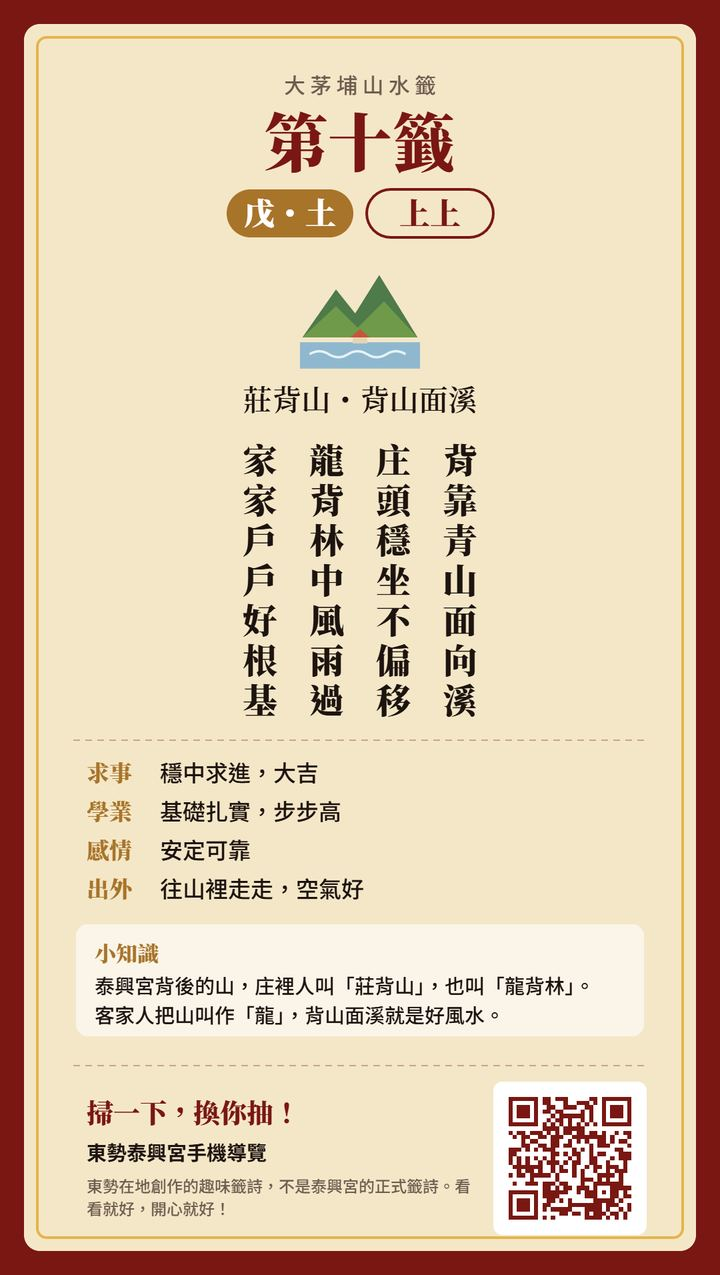
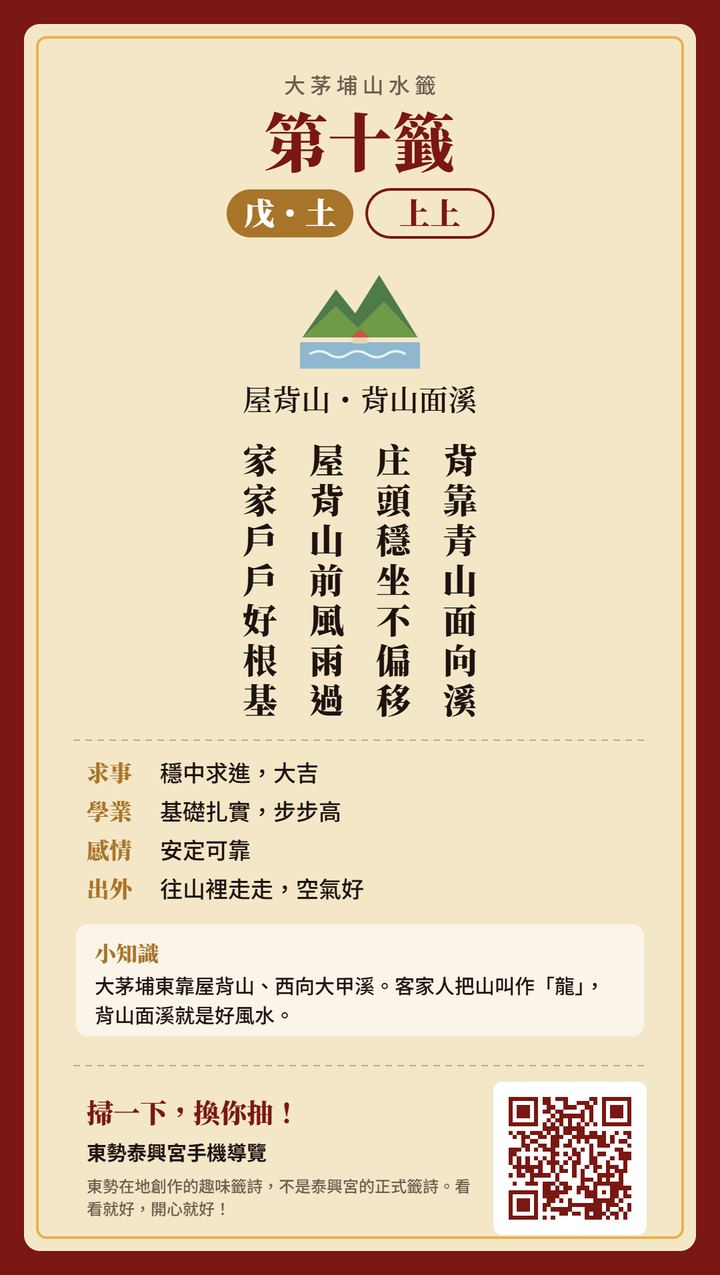
「莊背山」更正為「屋背山」（依維基百科、中國時報、客新聞），移除無出處的「龍背林」；第十籤與籤卡圖片同步更新

Changed region(s): [[0.1222, 0.7647, 0.825, 0.8259], [0.4278, 0.3365, 0.4889, 0.4894], [0.3361, 0.3059, 0.3972, 0.3365]]

diff --git a/js/data.js b/js/data.js
@@ -239,12 +239,12 @@ window.TOUR = {
       },
       {
         gan: "戊", wx: "土", luck: "上上", icon: "mountain",
-        title: "莊背山・背山面溪",
-        poem: ["背靠青山面向溪", "庄頭穩坐不偏移", "龍背林中風雨過", "家家戶戶好根基"],
-        say: "泰興宮背靠莊背山、面向大甲溪，這是最好的風水。有山當靠山，做事就穩。",
+        title: "屋背山・背山面溪",
+        poem: ["背靠青山面向溪", "庄頭穩坐不偏移", "屋背山前風雨過", "家家戶戶好根基"],
+        say: "泰興宮背靠屋背山、面向大甲溪，這是最好的風水。有山當靠山，做事就穩。",
         advice: { "求事": "穩中求進，大吉", "學業": "基礎扎實，步步高", "感情": "安定可靠", "出外": "往山裡走走，空氣好" },
-        note: "泰興宮背後的山，庄裡人叫「莊背山」，也叫「龍背林」。客家人把山叫作「龍」，背山面溪就是好風水。",
-        season: { text: "莊背山：一年四季守在庄後" },
+        note: "大茅埔東靠屋背山、西向大甲溪。客家人把山叫作「龍」，背山面溪就是好風水。",
+        season: { text: "屋背山：一年四季守在庄後" },
       },
       {
         gan: "己", wx: "土", luck: "上上", icon: "citrus",
@@ -357,7 +357,7 @@ window.TOUR = {
       // 內容來源：《茅埔成庄》、邱民雄〈大茅埔泰興宮三山國王〉、徐登志〈犒將〉、農業部〈我的幸福小地方〉
       hotspots: [
         { id: "temple", x: 17.5, y: 50, title: "泰興宮",
-          desc: "廟背靠莊背山、面向大甲溪，是整條中軸大街的起點。" },
+          desc: "廟背靠屋背山、面向大甲溪，是整條中軸大街的起點。" },
         { id: "road", x: 54, y: 50, title: "棋盤式道路",
           desc: "中軸大街從廟前一路貫穿庄頭，兩邊的巷道像棋盤一樣，左右對稱排列。" },
         { id: "moat", x: 38.5, y: 86, title: "環庄護城河",
@@ -386,7 +386,7 @@ window.TOUR = {
           say: "這就是山門。" },
         { type: "explore", pose: "point", targets: ["plaque", "sanshan", "lion"],
           say: "先跟眼前的廟打個招呼！照片裡有三個發光的地方，點點看。",
-          done: "廟後面還有一片山，村民叫它「莊背山」，也叫「龍背林」。泰興宮就是背靠著山、面向大甲溪。" },
+          done: "廟後面還有一片山，叫作「屋背山」。泰興宮就是背靠著山、面向大甲溪。" },
         { image: "assets/img/plaza-scroll.svg", focus: 17,
           say: "這座廟不只是一座廟，整個庄頭都是從這裡規劃出去的。我們飛到天上，看看兩百年前的大茅埔！" },
         { say: "道光二年（1822），張寧壽帶著二十八股的夥伴來這裡開墾。那時候，這裡是一大片茅草荒埔。" },

diff --git a/sw.js b/sw.js
@@ -1,6 +1,6 @@
 // TempleGo 離線快取
 // ⚠ 新增或改名圖片時：把路徑加進 PRECACHE，並把 VERSION 加 1，遊客手機才會更新快取
-const VERSION = "v40";
+const VERSION = "v41";
 const CACHE = `templego-${VERSION}`;
 const FONT_CACHE = "templego-fonts";
 

diff --git a/README.md b/README.md
@@ -177,7 +177,7 @@ assets/
 | 第七籤 | 丁・火 | 中吉 | 螢火蟲・溪邊的小燈 | [第 214 行](https://github.com/Pang-Yiyi/TempleGo/blob/main/js/data.js#L214) | [看圖](docs/qian/qian-07.jpg) |
 | 第八籤 | 丁・火 | 上吉 | 五行紙船・水上星河 | [第 223 行](https://github.com/Pang-Yiyi/TempleGo/blob/main/js/data.js#L223) | [看圖](docs/qian/qian-08.jpg) |
 | 第九籤 | 戊・土 | 上吉 | 石虎・淺山的守護者 | [第 232 行](https://github.com/Pang-Yiyi/TempleGo/blob/main/js/data.js#L232) | [看圖](docs/qian/qian-09.jpg) |
-| 第十籤 | 戊・土 | 上上 | 莊背山・背山面溪 | [第 241 行](https://github.com/Pang-Yiyi/TempleGo/blob/main/js/data.js#L241) | [看圖](docs/qian/qian-10.jpg) |
+| 第十籤 | 戊・土 | 上上 | 屋背山・背山面溪 | [第 241 行](https://github.com/Pang-Yiyi/TempleGo/blob/main/js/data.js#L241) | [看圖](docs/qian/qian-10.jpg) |
 | 第十一籤 | 己・土 | 上上 | 椪柑・金黃藏好運 | [第 250 行](https://github.com/Pang-Yiyi/TempleGo/blob/main/js/data.js#L250) | [看圖](docs/qian/qian-11.jpg) |
 | 第十二籤 | 己・土 | 上吉 | 果園夜訪客・山羌白鼻心 | [第 259 行](https://github.com/Pang-Yiyi/TempleGo/blob/main/js/data.js#L259) | [看圖](docs/qian/qian-12.jpg) |
 | 第十三籤 | 庚・金 | 中吉 | 五月桃・桃木斬煩惱 | [第 268 行](https://github.com/Pang-Yiyi/TempleGo/blob/main/js/data.js#L268) | [看圖](docs/qian/qian-13.jpg) |
